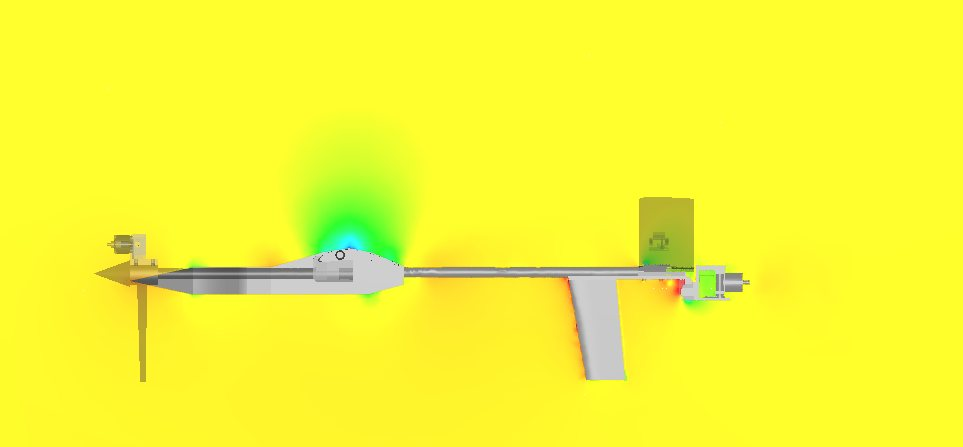
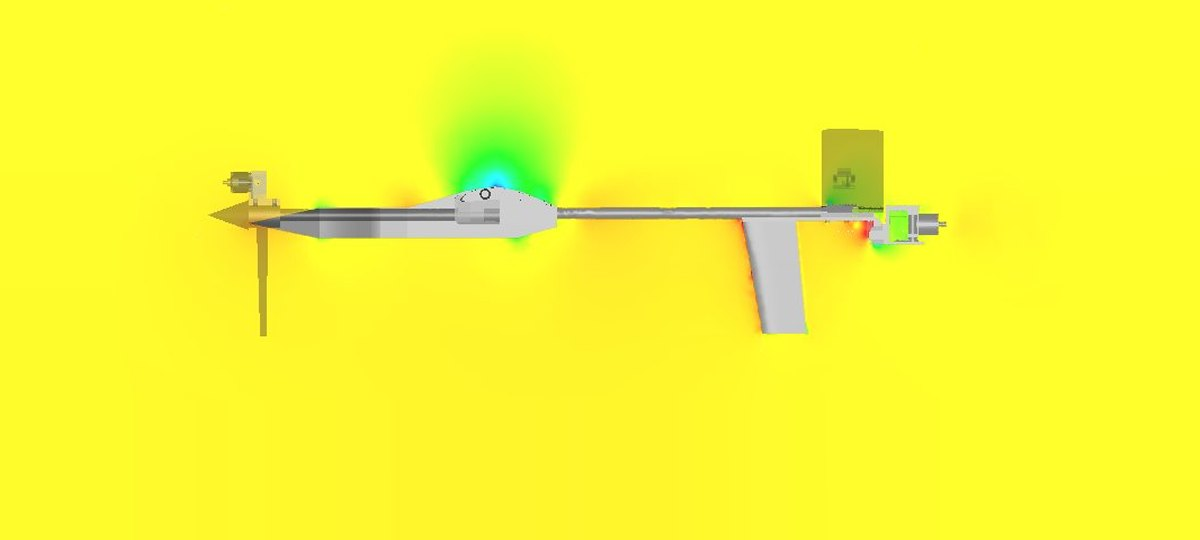
Smooth, aligned CFD viewer

Changed region(s): [[0.0935, 0.1163, 0.81, 0.8725]]

diff --git a/index.html b/index.html
@@ -251,13 +251,18 @@ td.num{font-family:var(--mono);font-size:.92rem;white-space:nowrap}
 .seg button[aria-pressed="true"]{background:var(--navy);color:#fff}
 .seg button:hover:not([aria-pressed="true"]){background:#DCE4ED}
 .v-label{font:500 .95rem var(--mono);color:var(--muted)}
-.v-stage{aspect-ratio:2.25/1;background:#F7F9FB;display:grid;place-items:center;padding:1rem}
-.v-stage img{max-height:100%;width:auto;object-fit:contain;transition:opacity .25s}
+.v-stage{background:#F7F9FB}
+.v-stage canvas{display:block;width:100%;height:auto;aspect-ratio:1200/540}
 .v-foot{display:flex;flex-wrap:wrap;gap:1rem;align-items:center;justify-content:space-between;padding:1rem 1.3rem;border-top:1px solid var(--line)}
 .scale{display:flex;align-items:center;gap:.6rem;font-size:.9rem;color:var(--muted)}
-.scale img{width:200px;height:12px;border-radius:2px}
+.scale{flex:1 1 320px;max-width:520px}
+.scale img{flex:1;min-width:0;width:100%;height:12px;border-radius:2px}
 .speed-range{display:flex;align-items:center;gap:.8rem;flex:1;min-width:240px}
-.speed-range input{flex:1;accent-color:var(--navy)}
+.speed-track{flex:1;position:relative;padding-bottom:1.3rem}
+.speed-track input{width:100%;margin:0;accent-color:var(--navy);cursor:pointer}
+.ticks{position:absolute;left:8px;right:8px;bottom:0;height:1.1rem}
+.ticks button{position:absolute;transform:translateX(-50%);background:none;border:0;padding:0;font:500 .78rem var(--mono);color:var(--muted);cursor:pointer}
+.ticks button:hover,.ticks button.on{color:var(--ink)}
 
 .compare{display:grid;gap:1.25rem;align-items:stretch}
 @media (min-width:900px){.compare{grid-template-columns:1fr auto 1fr}}
@@ -863,16 +868,23 @@ footer ul{list-style:none;margin:0;padding:0;display:grid;gap:.35rem;align-conte
           </div>
           <div class="speed-range">
             <label for="speed" style="font-weight:600">Airspeed</label>
-            <input id="speed" type="range" min="0" max="3" step="1" value="0" list="speedTicks">
-            <datalist id="speedTicks"><option value="0"></option><option value="1"></option><option value="2"></option><option value="3"></option></datalist>
+            <div class="speed-track">
+              <input id="speed" type="range" min="0" max="3" step="0.01" value="0" aria-valuetext="15 metres per second">
+              <div class="ticks" aria-hidden="true">
+                <button type="button" tabindex="-1" data-stop="0" style="left:0%">15</button>
+                <button type="button" tabindex="-1" data-stop="1" style="left:33.333%">17.5</button>
+                <button type="button" tabindex="-1" data-stop="2" style="left:66.667%">20</button>
+                <button type="button" tabindex="-1" data-stop="3" style="left:100%">22.5</button>
+              </div>
+            </div>
             <output id="speedOut" class="v-label" for="speed">15 m/s</output>
           </div>
         </div>
         <div class="v-stage">
-          <img id="field" src="assets/img/cfd-v-15.jpg" alt="Velocity field around the aircraft at 15 metres per second.">
+          <canvas id="fieldCanvas" width="1200" height="540" role="img" aria-label="Velocity field around the aircraft at 15 metres per second."></canvas>
         </div>
         <div class="v-foot">
-          <div class="scale"><span>Low</span><img src="assets/img/cfd-colorbar.png" width="374" height="17" alt=""><span>High</span></div>
+          <div class="scale"><span>Low</span><img src="assets/img/cfd-colorbar.png" width="600" height="16" alt=""><span>High</span></div>
           <p class="fine" id="fieldNote">Side view. Blue areas are slower air; red areas are faster.</p>
         </div>
       </div>
@@ -1174,22 +1186,69 @@ const PARTS = [{"g":"wing","n":"aileron-L1","d":"Left control surface, inboard",
   }));
   q.addEventListener('input',filter);
 
-  /* ---------- CFD field viewer ---------- */
-  const SPEEDS=[['15','15'],['17_5','17.5'],['20','20'],['22_5','22.5']];
-  const img=document.getElementById('field'), sp=document.getElementById('speed'), out=document.getElementById('speedOut'),
-        note=document.getElementById('fieldNote'), fbtn=[...document.querySelectorAll('[data-field]')];
-  let field='v';
-  // preload
-  SPEEDS.forEach(([k])=>['v','p'].forEach(f=>{ const i=new Image(); i.src=`assets/img/cfd-${f}-${k}.jpg`; }));
-  function draw(){
-    const [k,label]=SPEEDS[+sp.value];
-    img.src=`assets/img/cfd-${field}-${k}.jpg`;
-    img.alt=`${field==='v'?'Velocity':'Pressure'} field around the aircraft at ${label} metres per second.`;
-    out.textContent=`${label} m/s`;
-    note.textContent= field==='v' ? 'Side view. Blue areas are slower air; red areas are faster.' : 'Side view. Red areas are high pressure, which adds drag; blue areas are low pressure.';
+  /* ---------- CFD field viewer ----------
+     All eight renders are pre-aligned so the aircraft sits in exactly the same
+     place. Dragging the slider cross-fades between neighbouring airspeeds, and
+     switching Velocity/Pressure cross-fades between the two fields. */
+  const KEYS=['15','17_5','20','22_5'], LABELS=[15,17.5,20,22.5];
+  const cv=document.getElementById('fieldCanvas'), cx=cv.getContext('2d');
+  const sp=document.getElementById('speed'), out=document.getElementById('speedOut'),
+        note=document.getElementById('fieldNote'), fbtn=[...document.querySelectorAll('[data-field]')],
+        ticks=[...document.querySelectorAll('.ticks button')];
+  const reduceMotion=matchMedia('(prefers-reduced-motion: reduce)').matches;
+  const IMG={v:[],p:[]};
+  let pos=0, mix=0, mixTarget=0, anim=null;          // mix: 0 = velocity, 1 = pressure
+  ['v','p'].forEach(f=>KEYS.forEach((k,i)=>{ const im=new Image(); im.onload=paint; im.src=`assets/img/cfd-${f}-${k}.jpg`; IMG[f][i]=im; }));
+  function layer(f,alpha){
+    const i=Math.min(2,Math.floor(pos)), t=pos-i;
+    const a=IMG[f][i], b=IMG[f][i+1];
+    if(a.complete&&a.naturalWidth){ cx.globalAlpha=alpha; cx.drawImage(a,0,0,cv.width,cv.height); }
+    if(t>0.001&&b.complete&&b.naturalWidth){ cx.globalAlpha=alpha*t; cx.drawImage(b,0,0,cv.width,cv.height); }
   }
-  sp.addEventListener('input',draw);
-  fbtn.forEach(b=>b.addEventListener('click',()=>{ field=b.dataset.field; fbtn.forEach(x=>x.setAttribute('aria-pressed',x===b)); draw(); }));
+  function paint(){
+    cx.globalAlpha=1;
+    layer('v',1);
+    if(mix>0.001) layer('p',mix);
+    cx.globalAlpha=1;
+  }
+  function speedAt(p){ const i=Math.min(2,Math.floor(p)), t=p-i; return LABELS[i]+(LABELS[i+1]-LABELS[i])*t; }
+  function label(){
+    const v=speedAt(pos), onStop=Math.abs(pos-Math.round(pos))<0.02;
+    const txt=onStop?`${LABELS[Math.round(pos)]} m/s`:`${v.toFixed(1)} m/s`;
+    out.textContent=txt;
+    const field=mixTarget?'Pressure':'Velocity';
+    cv.setAttribute('aria-label',`${field} field around the aircraft at ${txt.replace(' m/s',' metres per second')}.`);
+    sp.setAttribute('aria-valuetext',txt.replace(' m/s',' metres per second'));
+    ticks.forEach((t,i)=>t.classList.toggle('on',onStop&&Math.round(pos)===i));
+  }
+  // animate pos and mix toward their targets
+  let posTarget=0;
+  function tick(){
+    const k=reduceMotion?1:0.16;
+    pos+=(posTarget-pos)*k; mix+=(mixTarget-mix)*(reduceMotion?1:0.14);
+    if(Math.abs(posTarget-pos)<0.002) pos=posTarget;
+    if(Math.abs(mixTarget-mix)<0.002) mix=mixTarget;
+    paint(); label();
+    anim=(pos!==posTarget||mix!==mixTarget)?requestAnimationFrame(tick):null;
+  }
+  function go(){ if(!anim) anim=requestAnimationFrame(tick); }
+  let dragging=false;
+  sp.addEventListener('pointerdown',()=>dragging=true);
+  sp.addEventListener('input',()=>{ posTarget=+sp.value; if(dragging){ pos=posTarget; paint(); label(); } else go(); });
+  function snap(){ dragging=false; posTarget=Math.round(+sp.value); sp.value=posTarget; go(); }
+  sp.addEventListener('pointerup',snap); sp.addEventListener('change',snap);
+  sp.addEventListener('keydown',e=>{            // arrow keys jump between the four airspeeds
+    const d={ArrowRight:1,ArrowUp:1,ArrowLeft:-1,ArrowDown:-1}[e.key];
+    if(d){ e.preventDefault(); posTarget=Math.max(0,Math.min(3,Math.round(posTarget)+d)); sp.value=posTarget; go(); }
+  });
+  ticks.forEach(t=>t.addEventListener('click',()=>{ posTarget=+t.dataset.stop; sp.value=posTarget; go(); }));
+  fbtn.forEach(b=>b.addEventListener('click',()=>{
+    mixTarget=b.dataset.field==='p'?1:0;
+    fbtn.forEach(x=>x.setAttribute('aria-pressed',x===b));
+    note.textContent= mixTarget ? 'Side view. Red areas are high pressure, which adds drag; blue areas are low pressure.' : 'Side view. Blue areas are slower air; red areas are faster.';
+    go();
+  }));
+  label();
 })();
 </script>
 
